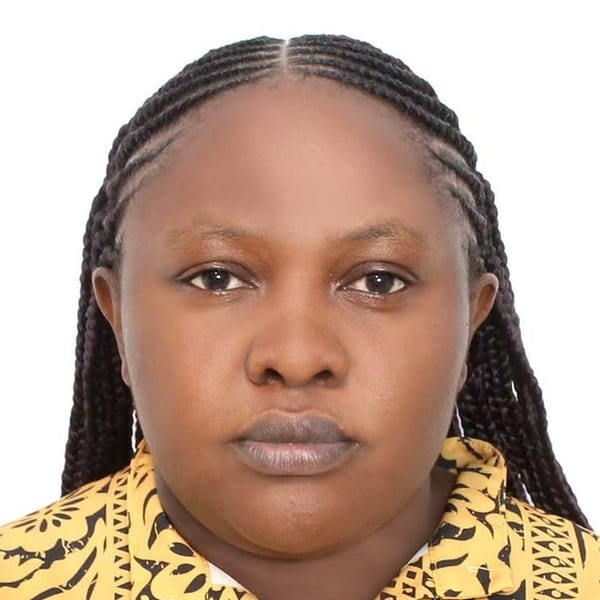
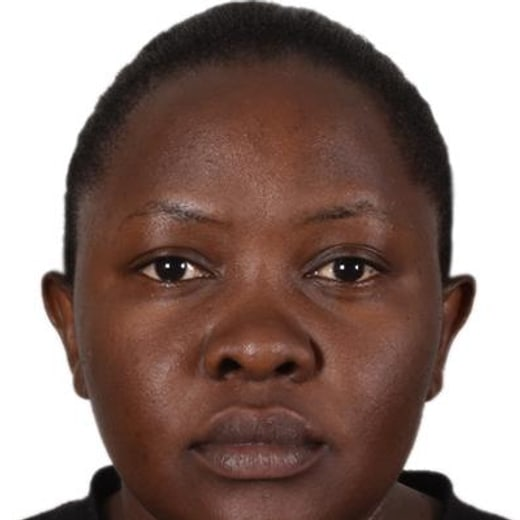
fix: update contact phone numbers and improve member card accessibility

diff --git a/src/components/Team.jsx b/src/components/Team.jsx
@@ -1,7 +1,7 @@
 import { Reveal, Stagger, StaggerItem } from './ui/Motion'
 import { RingMark } from './ui/Decor'
-import { ArrowUpRight, Mail, Phone } from './ui/Icons'
-import { org, team } from '../data/site'
+import { ArrowUpRight, Phone } from './ui/Icons'
+import { team } from '../data/site'
 
 const initials = (name) =>
   name
@@ -28,13 +28,14 @@ function MemberCard({ member }) {
       />
       <div className="relative">
         {member.photo ? (
-          <span className="block h-16 w-16 overflow-hidden rounded-2xl bg-sand">
+          <span className="block h-16 w-16 overflow-hidden rounded-2xl bg-sand ring-1 ring-ink/10">
             <img
               src={member.photo}
               alt={`${member.name}, ${member.role} of WACWAU`}
               width="64"
               height="64"
               loading="lazy"
+              style={{ objectPosition: member.focus || '50% 30%' }}
               className="h-full w-full object-cover transition-transform duration-500 ease-spring group-hover:scale-105"
             />
           </span>
@@ -73,23 +74,7 @@ function MemberCard({ member }) {
             </span>
             {member.phone}
           </a>
-        ) : (
-          <a
-            href={`mailto:${org.email}`}
-            className="mt-5 inline-flex items-center gap-2.5 text-[0.92rem] font-medium text-clay transition-colors duration-300 hover:text-ink"
-          >
-            <span
-              className={`grid h-8 w-8 place-items-center rounded-full transition-colors duration-300 ${
-                pink
-                  ? 'bg-pink-50 text-pink-600 group-hover:bg-pink-500 group-hover:text-white'
-                  : 'bg-sky-50 text-sky-600 group-hover:bg-sky-500 group-hover:text-white'
-              }`}
-            >
-              <Mail size={15} />
-            </span>
-            Email the office
-          </a>
-        )}
+        ) : null}
       </div>
     </StaggerItem>
   )
@@ -118,7 +103,7 @@ export default function Team() {
           <div className="lg:col-span-5">
             <Reveal delay={0.14}>
               <p className="text-[1.02rem] leading-[1.75] text-clay">
-                Every number here is a direct line.
+                Call the office and ask for the person whose work it is.
               </p>
             </Reveal>
           </div>

diff --git a/src/data/site.js b/src/data/site.js
@@ -17,7 +17,7 @@ export const org = {
   },
   phones: [
     { display: '+256 772 358 815', tel: '+256772358815', who: 'Executive Director' },
-    { display: '+256 772 073 161', tel: '+256772073161', who: 'Project Manager' },
+    { display: '+256 701 358 815', tel: '+256701358815', who: 'Office line' },
   ],
   country: 'Uganda',
   bank: {
@@ -115,49 +115,38 @@ export const team = [
   {
     name: 'Bakuyita Diana',
     role: 'Project Manager',
-    phone: '+256 772 073 161',
-    tel: '+256772073161',
     tone: 'sky',
   },
   {
     name: 'Nalugemwa Maria',
     role: 'Administrator',
     photo: '/images/nalugemwa-maria.jpg',
+    focus: '50% 40%',
     tone: 'pink',
   },
   {
     name: 'Buteme Rita',
     role: 'Secretary',
-    phone: '+256 785 759 049',
-    tel: '+256785759049',
     tone: 'sky',
   },
   {
     name: 'Lydia Musekweli',
     role: 'Publicity Secretary',
-    phone: '+256 775 595 903',
-    tel: '+256775595903',
     tone: 'pink',
   },
   {
     name: 'Ssemwogerere Denis',
     role: 'Programs Officer',
-    phone: '+256 793 422 788',
-    tel: '+256793422788',
     tone: 'sky',
   },
   {
     name: 'Makanga Muzamil',
     role: 'Youth Representative',
-    phone: '+256 703 571 750',
-    tel: '+256703571750',
     tone: 'pink',
   },
   {
     name: 'Mrs Kwesiga',
     role: 'Parents’ Representative',
-    phone: '+256 782 563 347',
-    tel: '+256782563347',
     tone: 'pink',
   },
 ]

diff --git a/index.html b/index.html
@@ -83,8 +83,8 @@
           },
           {
             "@type": "ContactPoint",
-            "contactType": "Programmes",
-            "telephone": "+256772073161",
+            "contactType": "Office line",
+            "telephone": "+256701358815",
             "areaServed": "UG",
             "availableLanguage": ["English"]
           }
